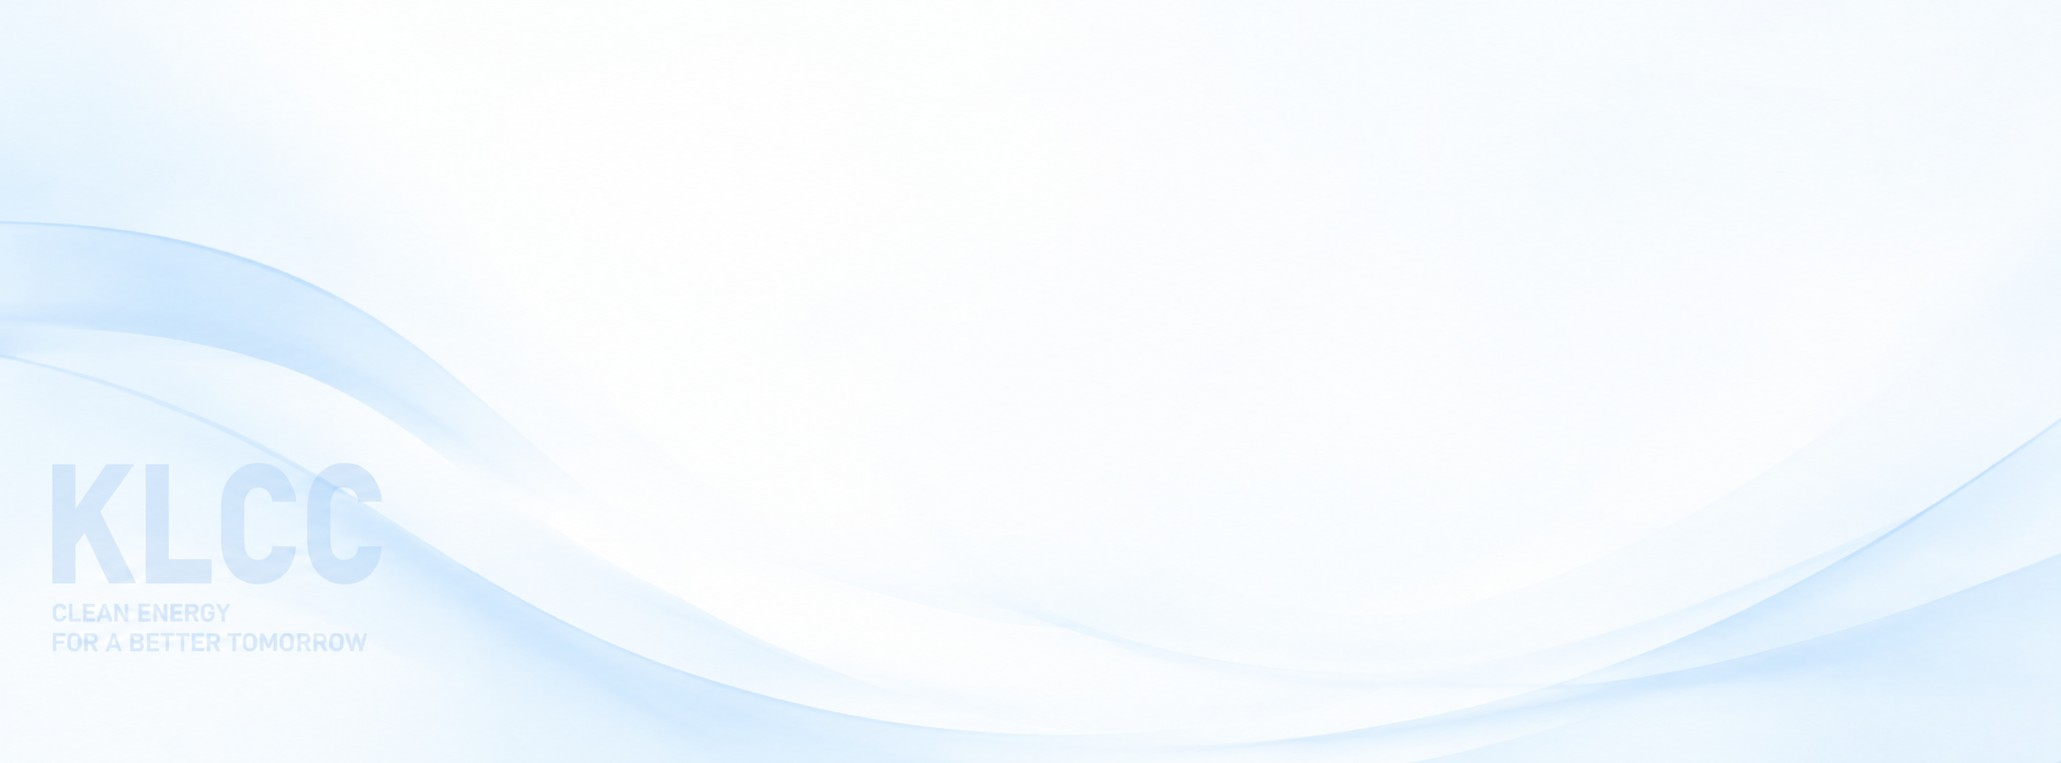
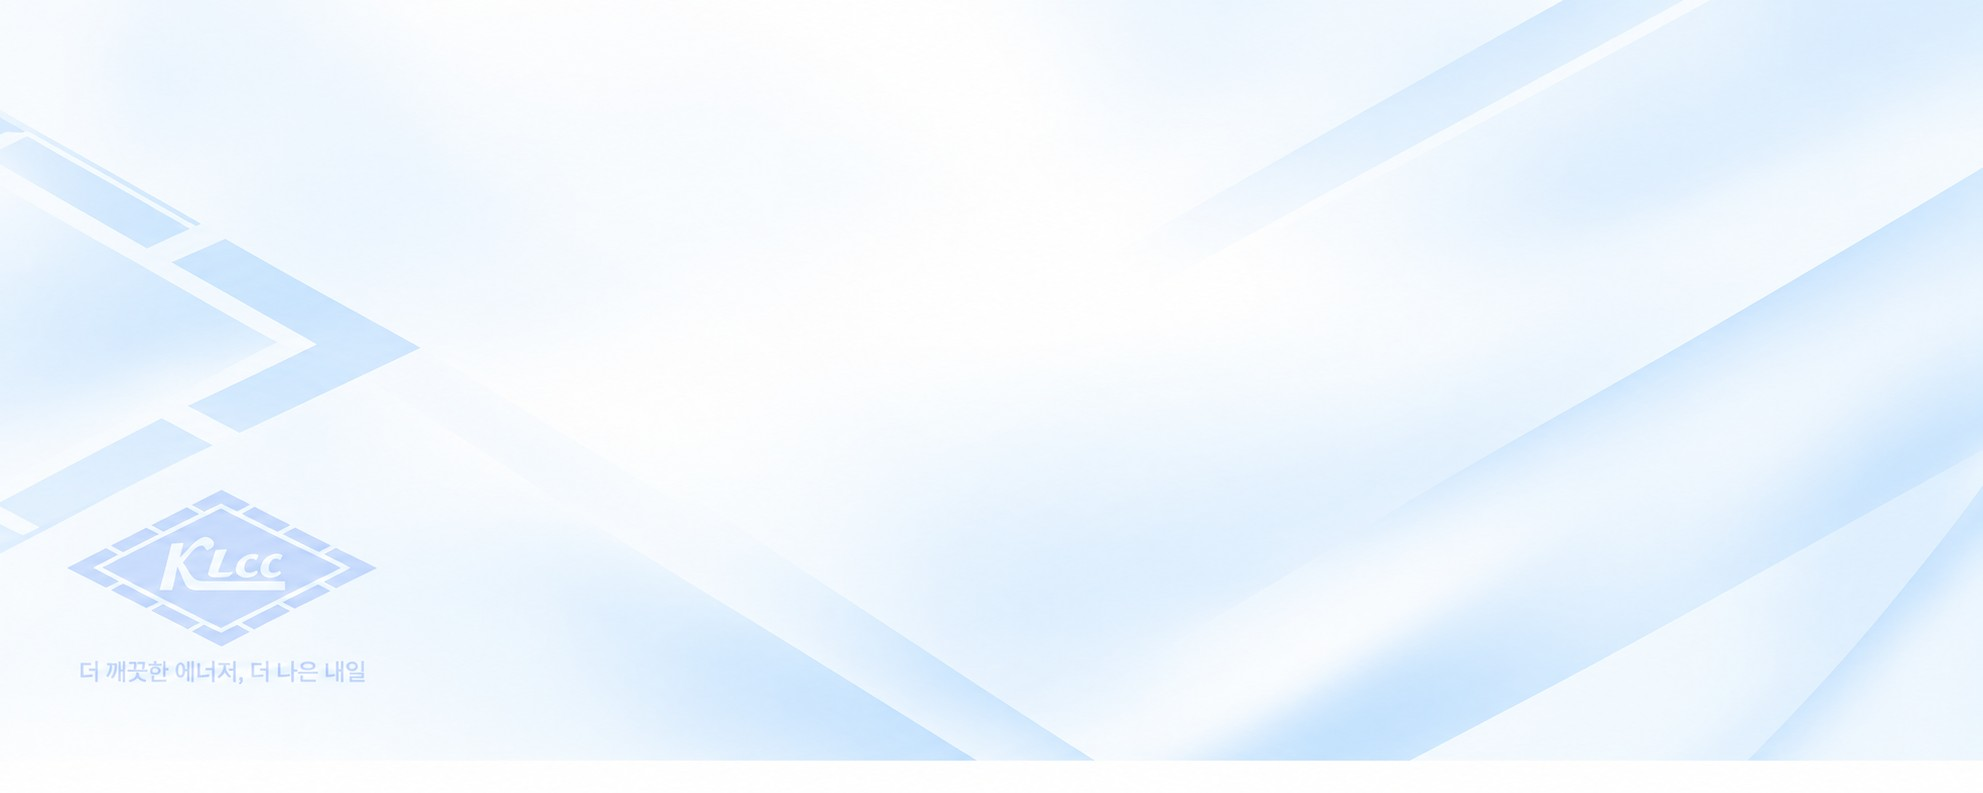
메인 CEO Message 섹션 배경을 새 KLCC 워터마크 배경으로 교체. ceo-bg.jpg ?v=20260914b, style.css ?v=801

diff --git a/assets/css/style.css b/assets/css/style.css
@@ -2922,7 +2922,7 @@ html[lang="en"] .greeting__sign .sign-name { display: block; margin-left: 0; mar
 /* CEO 섹션 배경(파도 워터마크) + 사진 없는 2열 구성(메시지 중앙정렬 + 우측 카드) */
 .ceo-section { position: relative; background: #f4f8fd; padding-block: clamp(18px, 2vw, 30px); }
 .ceo-section > .ceohome { position: relative; z-index: 1; }
-.ceo-section::before { content: ""; position: absolute; inset: 0; background: url("../images/site/ceo-bg.jpg?v=20260914") center/cover no-repeat; z-index: 0; }
+.ceo-section::before { content: ""; position: absolute; inset: 0; background: url("../images/site/ceo-bg.jpg?v=20260914b") center/cover no-repeat; z-index: 0; }
 .ceohome--nophoto { grid-template-columns: 1.55fr 1fr; gap: var(--space-8); align-items: center; }
 .ceohome--nophoto .ceohome__msg { align-items: center; text-align: center; }
 .ceohome--nophoto .ceohome__msg .eyebrow { justify-content: center; }

diff --git a/company.html b/company.html
@@ -7,7 +7,7 @@
   <meta name="description" content="한국탄산화학㈜ 회사소개 — 회사 개요, 주요 사업 영역, 연혁, 조직도, 생산시설 및 강점.">
   <link rel="stylesheet" href="assets/css/reset.css">
   <link rel="stylesheet" href="assets/css/variables.css?v=20260801">
-  <link rel="stylesheet" href="assets/css/style.css?v=20260731-800">
+  <link rel="stylesheet" href="assets/css/style.css?v=20260731-801">
   <!-- 대표이사 서명용 손글씨 폰트 (한글: Nanum Pen Script, 일어: Yomogi) -->
   <link rel="preconnect" href="https://fonts.googleapis.com">
   <link rel="preconnect" href="https://fonts.gstatic.com" crossorigin>

diff --git a/company-overview.html b/company-overview.html
@@ -8,7 +8,7 @@
   <meta name="description" content="한국탄산화학㈜ 회사 개요와 조직도 — 상호·설립·사업분야·생산제품 및 조직 구성.">
   <link rel="stylesheet" href="assets/css/reset.css">
   <link rel="stylesheet" href="assets/css/variables.css?v=20260801">
-  <link rel="stylesheet" href="assets/css/style.css?v=20260731-800">
+  <link rel="stylesheet" href="assets/css/style.css?v=20260731-801">
   <!-- 대표이사 서명용 손글씨 폰트 (한글: Nanum Pen Script, 일어: Yomogi) -->
   <link rel="preconnect" href="https://fonts.googleapis.com">
   <link rel="preconnect" href="https://fonts.gstatic.com" crossorigin>

diff --git a/company-network.html b/company-network.html
@@ -7,7 +7,7 @@
   <meta name="description" content="한국탄산화학㈜ 계열사 — 관계사 네트워크.">
   <link rel="stylesheet" href="assets/css/reset.css">
   <link rel="stylesheet" href="assets/css/variables.css?v=20260801">
-  <link rel="stylesheet" href="assets/css/style.css?v=20260731-800">
+  <link rel="stylesheet" href="assets/css/style.css?v=20260731-801">
   <!-- 대표이사 서명용 손글씨 폰트 (한글: Nanum Pen Script, 일어: Yomogi) -->
   <link rel="preconnect" href="https://fonts.googleapis.com">
   <link rel="preconnect" href="https://fonts.gstatic.com" crossorigin>

diff --git a/products-supply.html b/products-supply.html
@@ -7,7 +7,7 @@
   <meta name="description" content="고압가스 용기 재검사 — 한국가스안전공사 지정 전문검사기관 ㈜부성테크니컬(계열사)이 접수·내압시험·표면처리·판정의 4단계 검사로 용기 안전을 책임집니다.">
   <link rel="stylesheet" href="assets/css/reset.css">
   <link rel="stylesheet" href="assets/css/variables.css?v=20260801">
-  <link rel="stylesheet" href="assets/css/style.css?v=20260731-800">
+  <link rel="stylesheet" href="assets/css/style.css?v=20260731-801">
 </head>
 <body>
 

diff --git a/products-ice.html b/products-ice.html
@@ -7,7 +7,7 @@
   <meta name="description" content="드라이아이스 너겟·블록 생산설비 日産 너겟 90톤·블록 100톤. 고밀도 1.60g/㎤·고순도 99.995% 식품용 드라이아이스와 제조공정·용도·취급안전을 소개합니다.">
   <link rel="stylesheet" href="assets/css/reset.css">
   <link rel="stylesheet" href="assets/css/variables.css?v=20260801">
-  <link rel="stylesheet" href="assets/css/style.css?v=20260731-800">
+  <link rel="stylesheet" href="assets/css/style.css?v=20260731-801">
 </head>
 <body>
 

diff --git a/index.html b/index.html
@@ -7,7 +7,7 @@
   <meta name="description" content="한국탄산화학㈜(KLCC)는 산소·질소·아르곤·탄산·수소 등 산업용·의료용 가스와 드라이아이스를 제조·공급하는 전문기업입니다.">
   <link rel="stylesheet" href="assets/css/reset.css">
   <link rel="stylesheet" href="assets/css/variables.css?v=20260801">
-  <link rel="stylesheet" href="assets/css/style.css?v=20260731-800">
+  <link rel="stylesheet" href="assets/css/style.css?v=20260731-801">
 </head>
 <body>
 

diff --git a/products-construction.html b/products-construction.html
@@ -7,7 +7,7 @@
   <meta name="description" content="가스 설비 시설·시공 — 액화가스 저장탱크·기화설비·배관·공급설비를 설계부터 시운전·사후관리까지 원스톱으로 시공합니다.">
   <link rel="stylesheet" href="assets/css/reset.css">
   <link rel="stylesheet" href="assets/css/variables.css?v=20260801">
-  <link rel="stylesheet" href="assets/css/style.css?v=20260731-800">
+  <link rel="stylesheet" href="assets/css/style.css?v=20260731-801">
 </head>
 <body>
 

diff --git a/products-gas.html b/products-gas.html
@@ -7,7 +7,7 @@
   <meta name="description" content="산업용·의료용·혼합·특수·액화석유가스 — 고순도 산소·질소·아르곤·수소·헬륨·탄산·LPG를 Bulk·실린더로 공급·제조합니다.">
   <link rel="stylesheet" href="assets/css/reset.css">
   <link rel="stylesheet" href="assets/css/variables.css?v=20260801">
-  <link rel="stylesheet" href="assets/css/style.css?v=20260731-800">
+  <link rel="stylesheet" href="assets/css/style.css?v=20260731-801">
 </head>
 <body>
 

diff --git a/quality.html b/quality.html
@@ -7,7 +7,7 @@
   <meta name="description" content="고순도 제조 역량, 식품첨가물 탄산가스 품질, 용기검사장, Gas Service Team.">
   <link rel="stylesheet" href="assets/css/reset.css">
   <link rel="stylesheet" href="assets/css/variables.css?v=20260801">
-  <link rel="stylesheet" href="assets/css/style.css?v=20260731-800">
+  <link rel="stylesheet" href="assets/css/style.css?v=20260731-801">
 </head>
 <body>
 

diff --git a/support.html b/support.html
@@ -7,7 +7,7 @@
   <meta name="description" content="한국탄산화학 고객지원 — 사업장 연락처, 자주 묻는 질문.">
   <link rel="stylesheet" href="assets/css/reset.css">
   <link rel="stylesheet" href="assets/css/variables.css?v=20260801">
-  <link rel="stylesheet" href="assets/css/style.css?v=20260731-800">
+  <link rel="stylesheet" href="assets/css/style.css?v=20260731-801">
 </head>
 <body>
 
